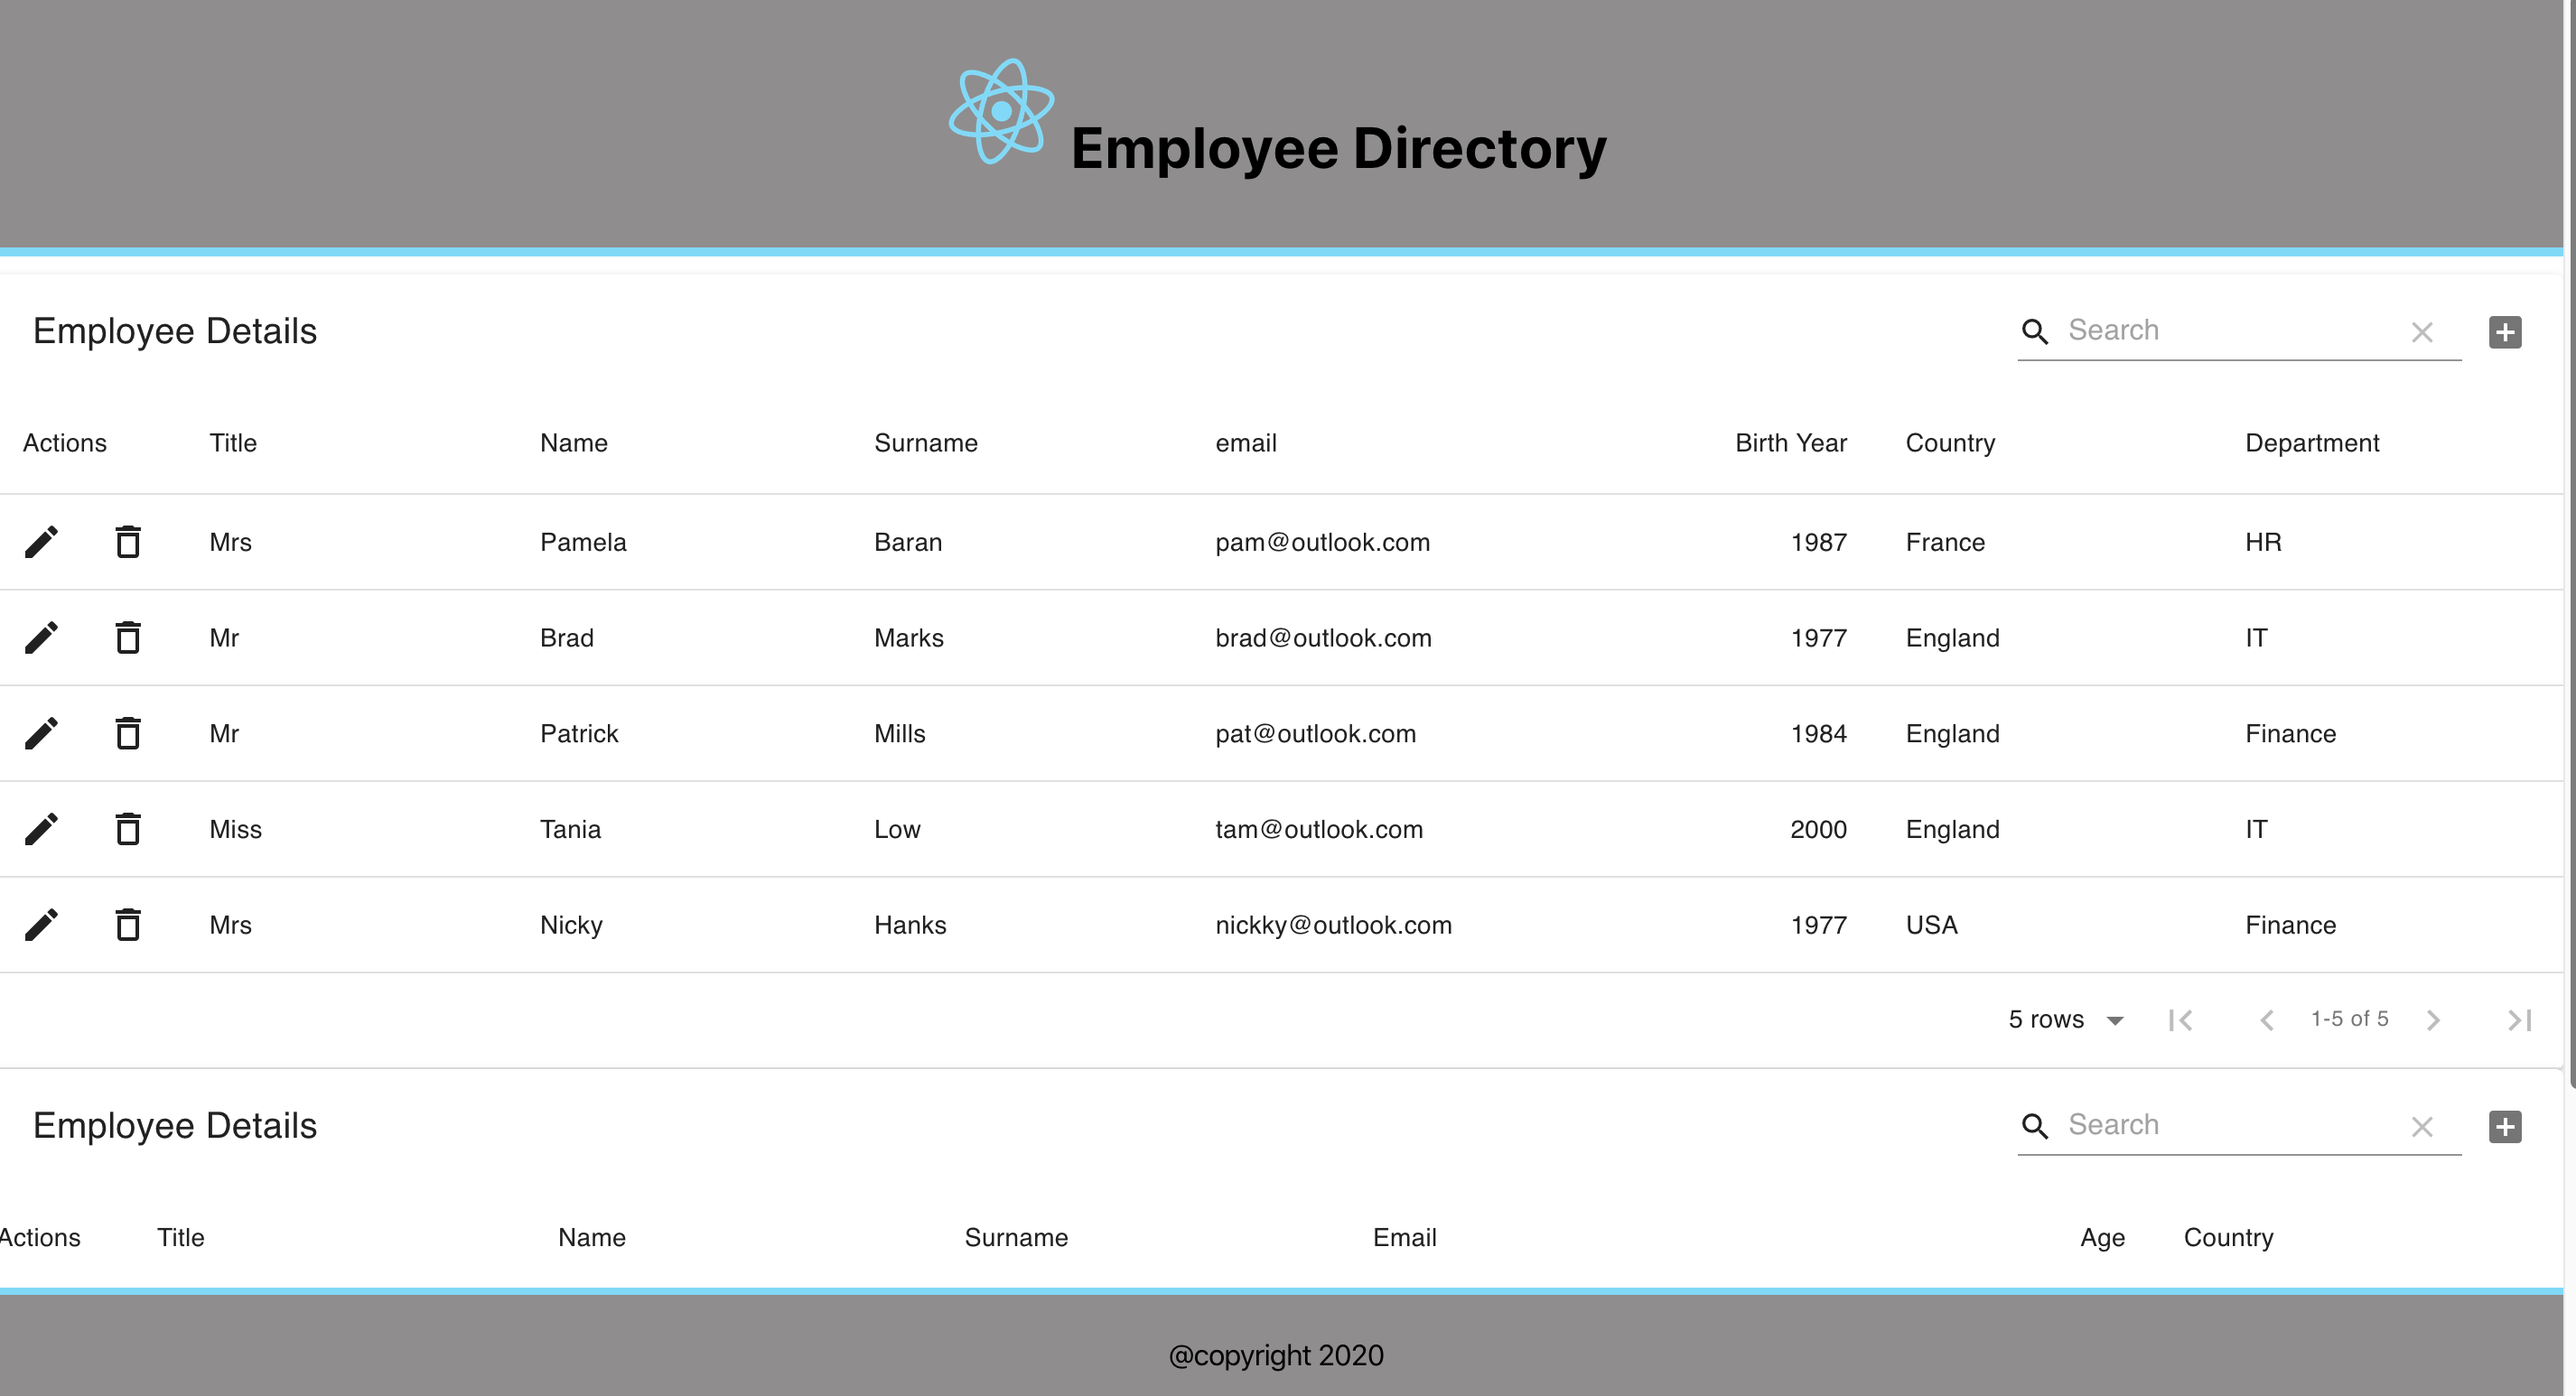
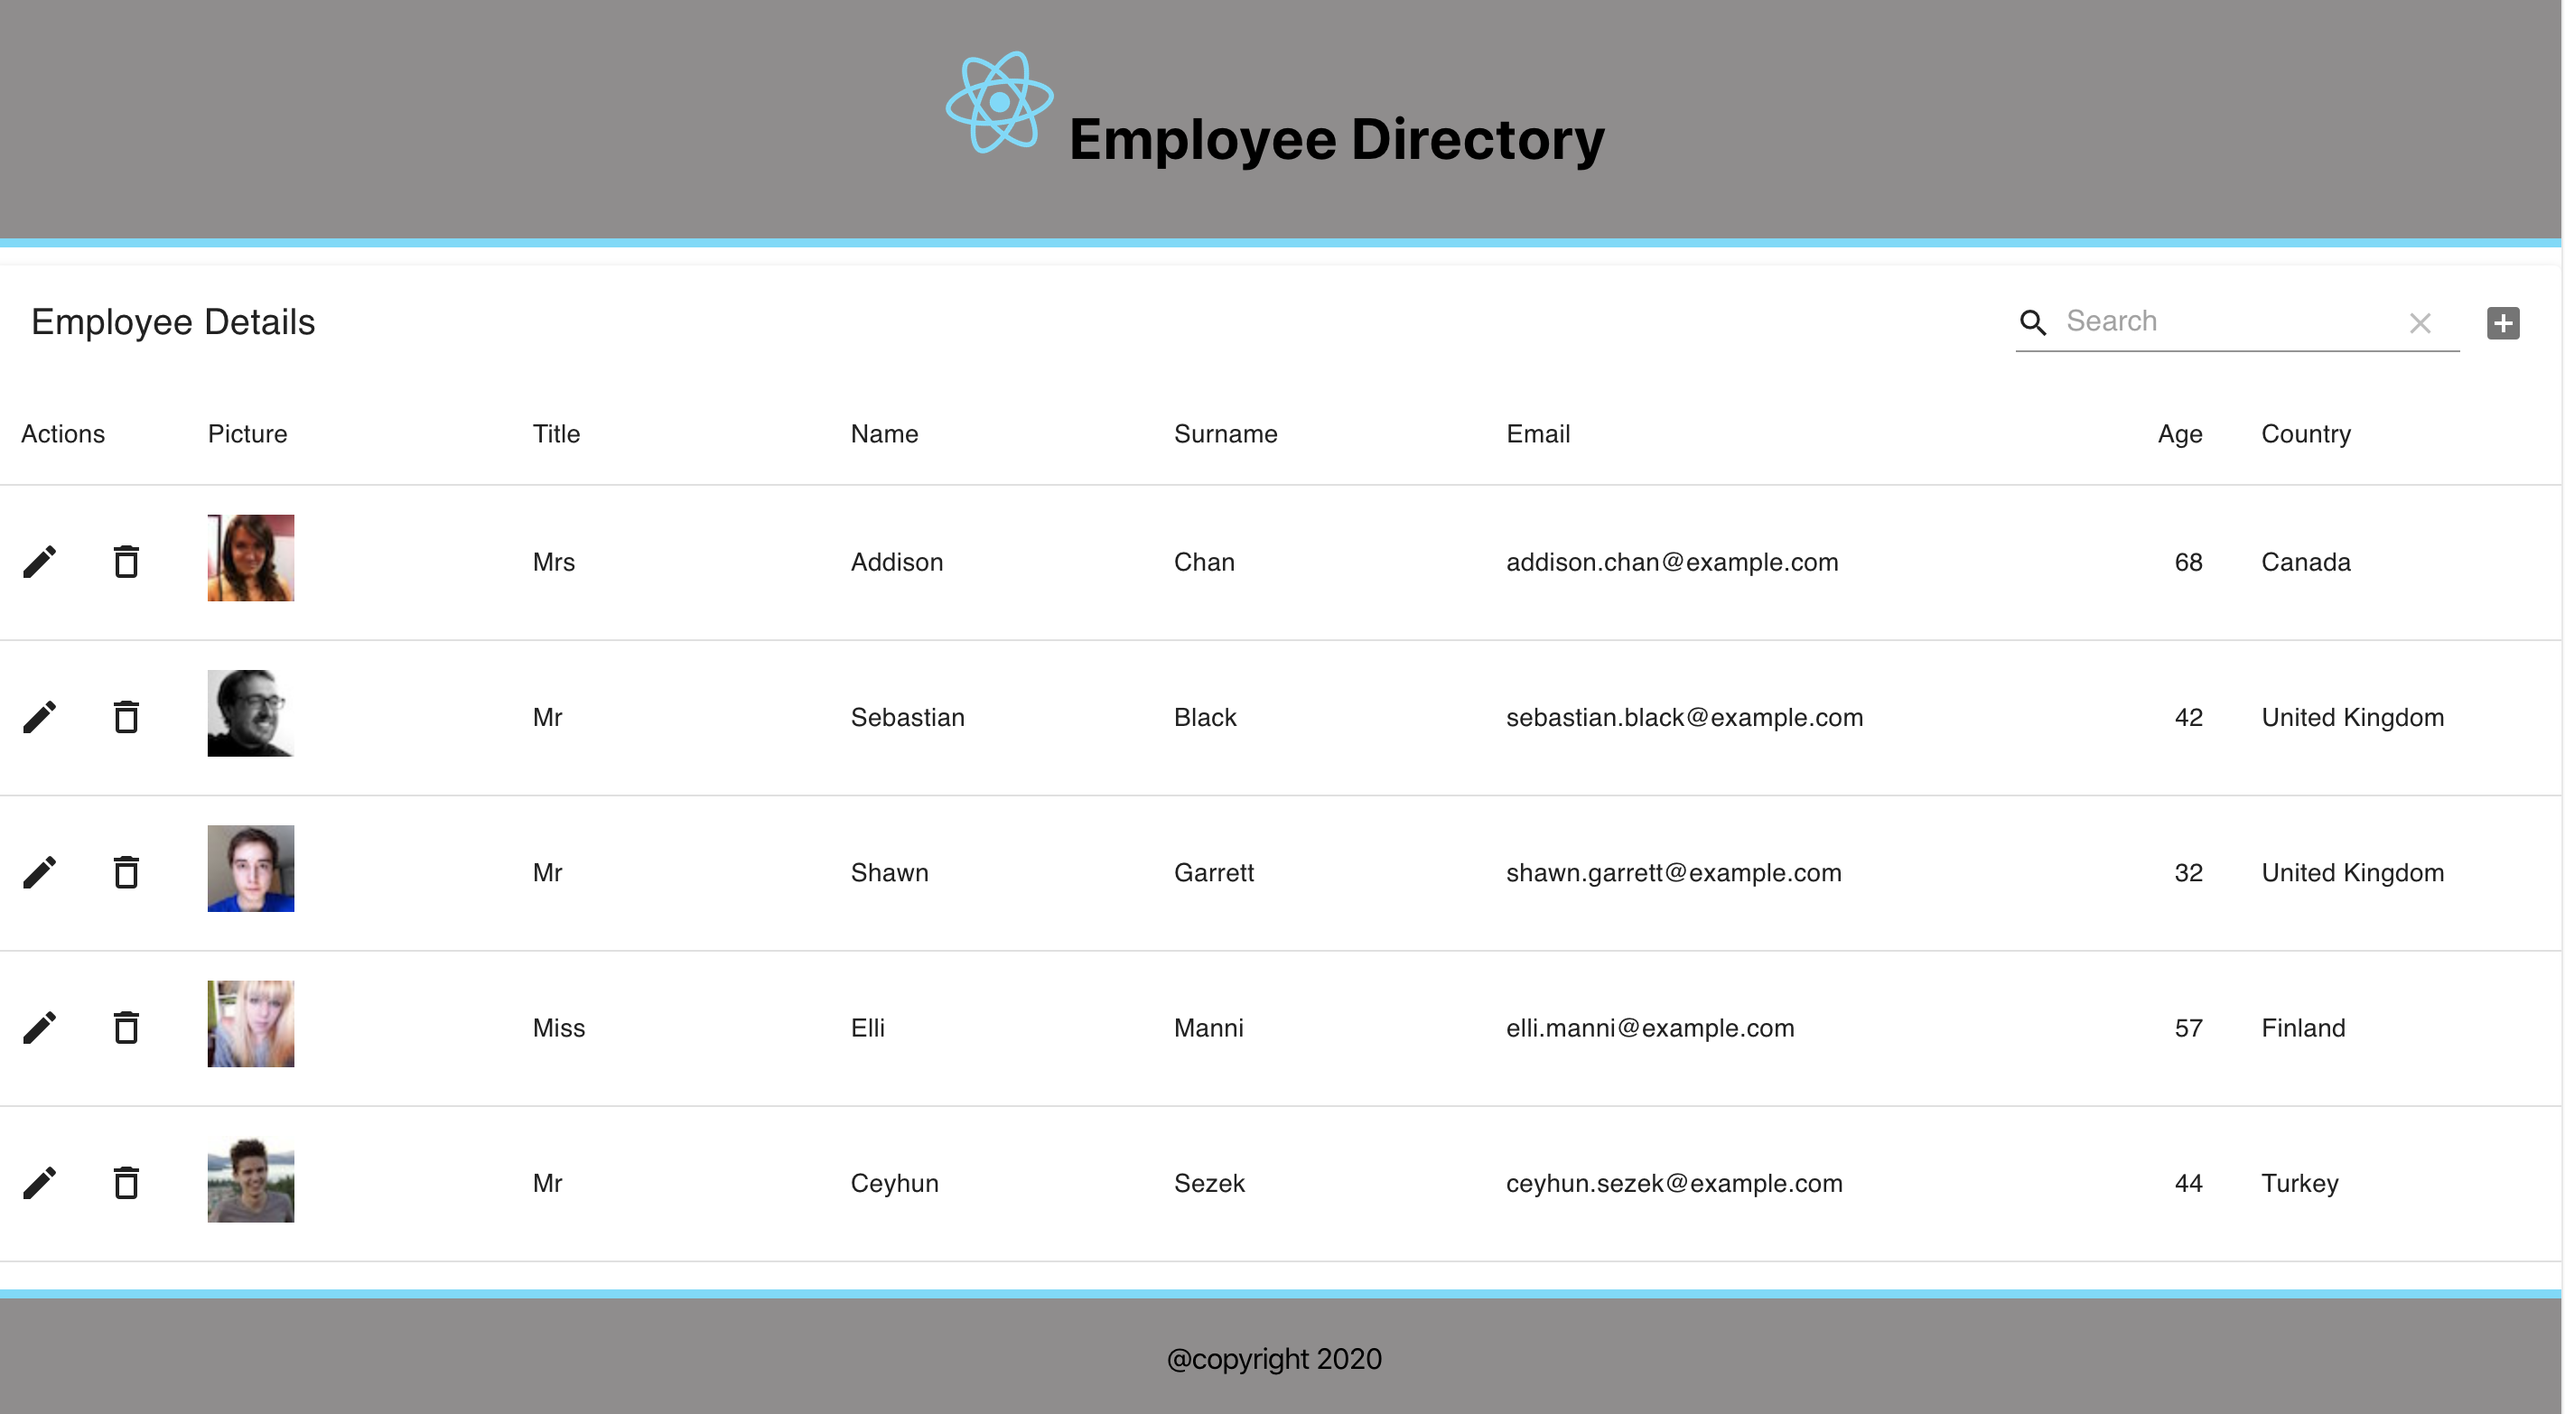
added thumbnail pics

diff --git a/src/components/Table.js b/src/components/Table.js
@@ -1,4 +1,6 @@
 import React, { Component } from 'react';
+import Icon from '@material-ui/core/Icon';
+
 
 import MaterialTable from 'material-table';
 // import Main from "./Main";
@@ -6,13 +8,14 @@ import MaterialTable from 'material-table';
 export default function MaterialTableDemo() {
     const [state, setState] = React.useState({
         columns: [
-
+            {title:"Picture", field:'thumbnail'},
             { title: 'Title', field: 'title' },
             { title: 'Name', field: 'name' },
             { title: 'Surname', field: 'surname' },
             { title: 'Email', field: 'email' },
             { title: 'Age', field: 'age', type: 'numeric' },
             { title: 'Country', field: 'birthCountry' },
+            
 
         ],
         data: [],
@@ -27,7 +30,7 @@ export default function MaterialTableDemo() {
         // Create an scoped async function in the hook
         async function getData() {
 
-            const url = "https://api.randomuser.me/?results=5";
+            const url = "https://api.randomuser.me/?results=25";
             const response = await fetch(url);
             const data = await response.json();
             console.log(data.results);
@@ -40,6 +43,8 @@ export default function MaterialTableDemo() {
                     surname: person.name.last,
                     birthCountry: person.location.country,
                     age: person.dob.age,
+                    thumbnail: <img
+                    src={person.picture.thumbnail}/>
                 }
                 
 
@@ -54,8 +59,10 @@ export default function MaterialTableDemo() {
     }, []);
 
 
-    return ( <
-        MaterialTable title = "Employee Details"
+    return (
+        
+        
+         < MaterialTable title = "Employee Details"
         columns = { state.columns }
         data = { state.data }
         editable = {

diff --git a/src/App.js b/src/App.js
@@ -11,7 +11,6 @@ function App() {
   return (
     <div className="App">
         <Header />
-        <Default />
          <Table />
         <Footer />
     </div>
